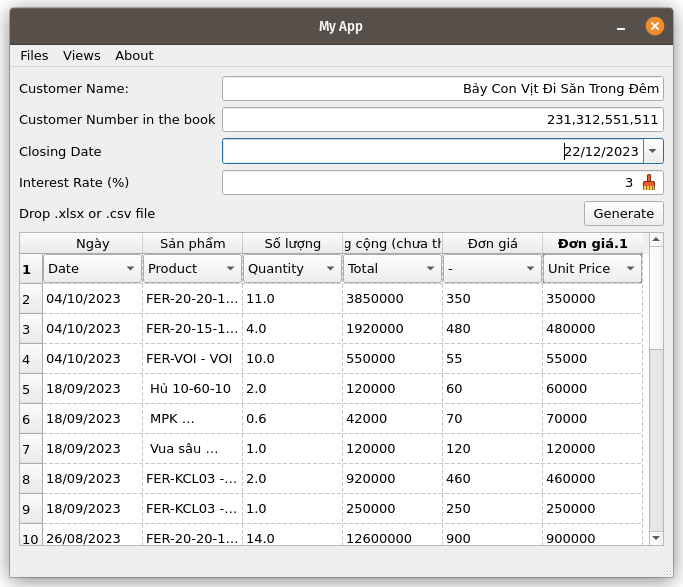
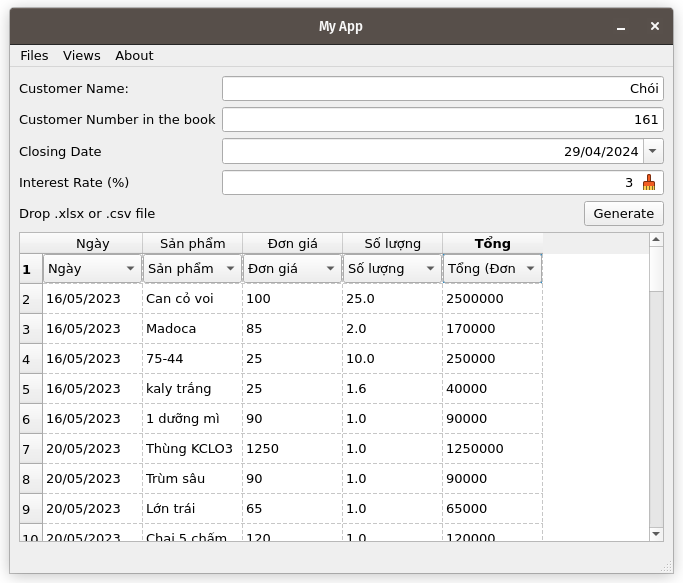
[docs] documentation

diff --git a/README.md b/README.md
@@ -3,52 +3,3 @@
 ![](docs/GUI.png)
 
 ![](docs/pdf_output.png)
-
-This script will take customer debt table from dolibarr software, calculate with some interest rate and export to pdf file
-
-Default interest rate is `3%` per month
-
-`Debt = total_invoice * mons_diff * interest_rate`
-
-Where `mons_diff` is the difference between invoice created date and pay date.
-
-
-## How to use
-
-Right click at `Init_setup.ps1` then `Run with PowerShell`. The setup will take time.
-
-File `.csv` must be seperate by tab `\t`. Open `samples file.csv` with notepad for more details.
-
-File `run.ps1` will run default setting which is: interest rate is `3%/month` and invoice pay date is `now` (the time run the script).
-
-```powershell
-Python310\python.exe ./cal_debt.py
-./md2pdf.ps1
-```
-
-**To set invoice pay date to different one** like `04/10/2023` in `%d/%m/%Y` format.
-
-```powershell
-Python310\python.exe ./cal_debt.py -dc 04/10/2023
-./md2pdf.ps1
-```
-
-To set different **invoice pay date** and **no calculate interest rate**.
-
-```powershell
-Python310\python.exe ./cal_debt.py -dc 04/10/2023 -ic 0
-./md2pdf.ps1
-```
-
-To change **interest rate** to `1%/month`.
-
-```powershell
-Python310\python.exe ./cal_debt.py -dc 04/10/2023 -ic 0 -ir 0.01
-./md2pdf.ps1
-```
-
-For further infomation run
-
-```powershell
-Python310\python.exe ./cal_debt.py -h
-```
